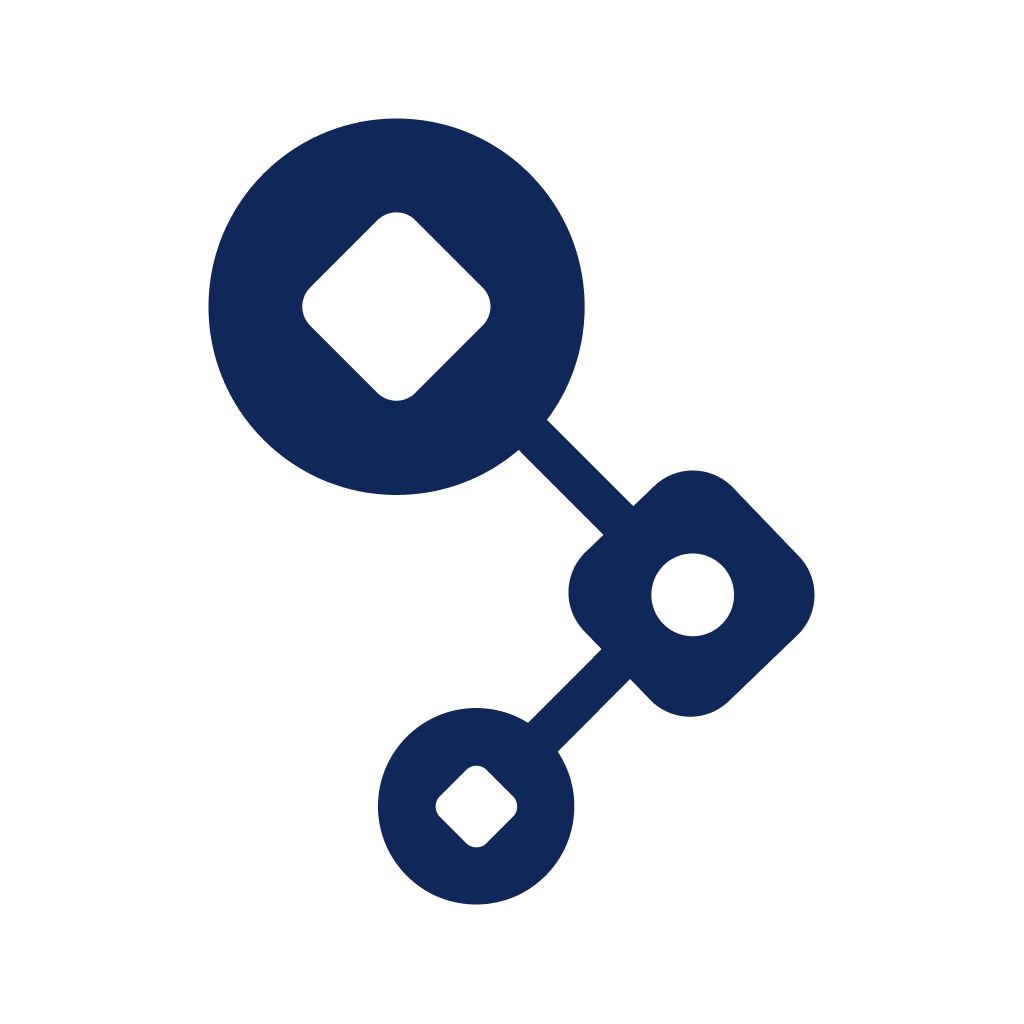
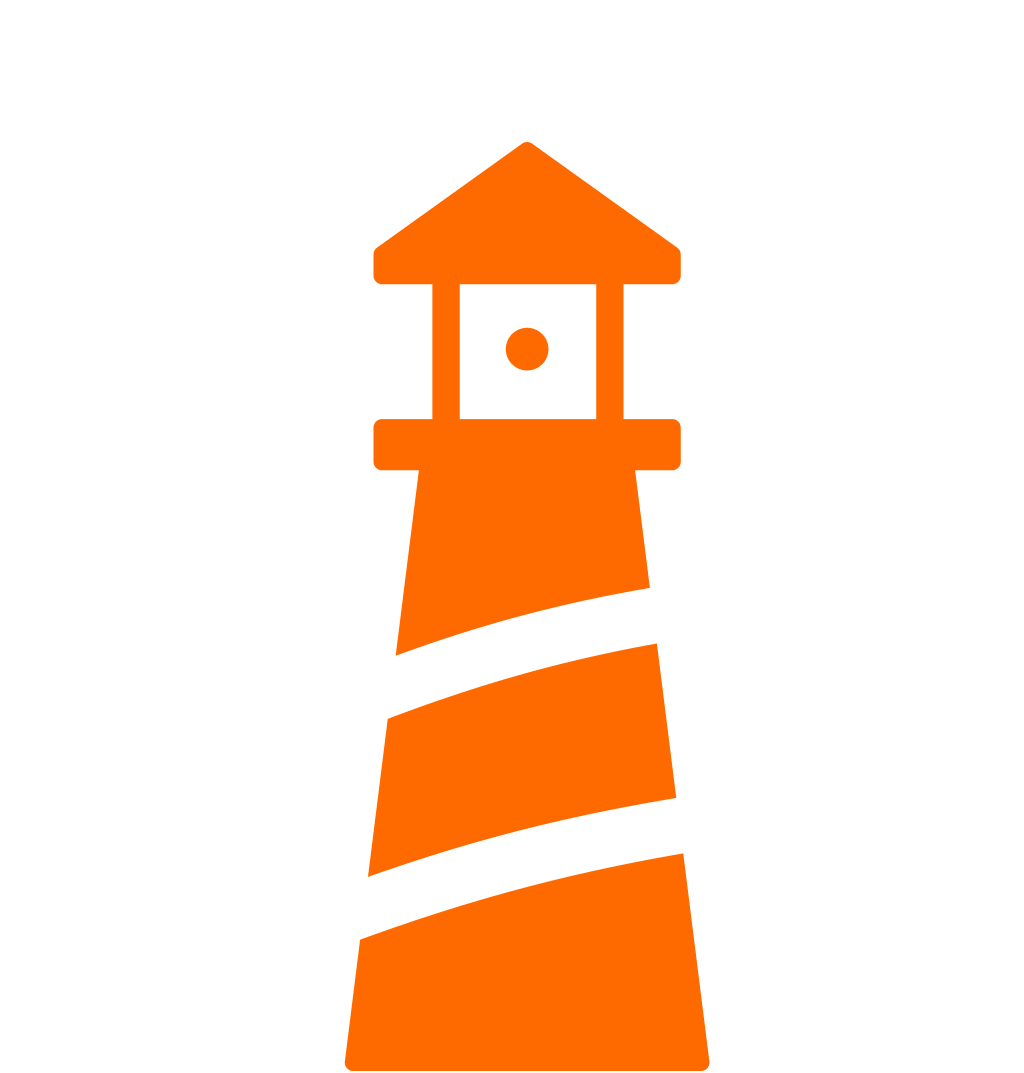
Experiment rebrand to Harbor

Changed region(s): [[0.1875, 0.0938, 0.8125, 1.0]]

diff --git a/apps/polycentric/src/common/theme/palette.ts b/apps/polycentric/src/common/theme/palette.ts
@@ -110,19 +110,19 @@ export const lightPalette = {
   neutral_975: '#0D1016',
   neutral_1000: '#000000',
 
-  primary_25: '#EDF8FE',
-  primary_50: '#DCF3FC',
-  primary_100: '#C5E9FA',
-  primary_200: '#9DD8F4',
-  primary_300: '#6BC4EF',
-  primary_400: '#55BBEC',
-  primary_500: '#4F91DC',
-  primary_600: '#1883BC',
-  primary_700: '#126394',
-  primary_800: '#0C436C',
-  primary_900: '#062343',
-  primary_950: '#051A35',
-  primary_975: '#041229',
+  primary_25: '#FFF3EB',
+  primary_50: '#FFC049',
+  primary_100: '#FFA05C',
+  primary_200: '#FF9447',
+  primary_300: '#FF8833',
+  primary_400: '#FF731F',
+  primary_500: '#FF6A00',
+  primary_600: '#F56600',
+  primary_700: '#E05E00',
+  primary_800: '#CC5500',
+  primary_900: '#B84D00',
+  primary_950: '#A34400',
+  primary_975: '#8F3C00',
 
   positive_25: '#E8F5E8',
   positive_50: '#D1EBD1',
@@ -190,19 +190,19 @@ export const darkPalette = {
   neutral_975: '#EEEEEE',
   neutral_1000: '#FFFFFF',
 
-  primary_25: '#0A1A24',
-  primary_50: '#0F2533',
-  primary_100: '#153445',
-  primary_200: '#1C4A62',
-  primary_300: '#1E6A8C',
-  primary_400: '#1E86B8',
-  primary_500: '#1EA3E5',
-  primary_600: '#1883BC',
-  primary_700: '#126394',
-  primary_800: '#0C436C',
-  primary_900: '#062343',
-  primary_950: '#051A35',
-  primary_975: '#041229',
+  primary_25: '#FFF3EB',
+  primary_50: '#FFC049',
+  primary_100: '#FFA05C',
+  primary_200: '#FF9447',
+  primary_300: '#FF8833',
+  primary_400: '#FF731F',
+  primary_500: '#FF6A00',
+  primary_600: '#F56600',
+  primary_700: '#E05E00',
+  primary_800: '#CC5500',
+  primary_900: '#B84D00',
+  primary_950: '#A34400',
+  primary_975: '#8F3C00',
 
   positive_25: '#0A1F0A',
   positive_50: '#0F2E0F',

diff --git a/apps/polycentric/src/common/components/layout/Layout.tsx b/apps/polycentric/src/common/components/layout/Layout.tsx
@@ -21,8 +21,7 @@ import { useSafeAreaInsets } from 'react-native-safe-area-context';
 
 import Icon from '@/src/common/components/Icon';
 import { IdentityFooter } from '@/src/features/core/identity/IdentityFooter';
-import BLUE_LOGO from '../../assets/images/polycentric-logo-blue-256.png';
-import WHITE_LOGO from '../../assets/images/polycentric-logo-white-256.png';
+import HARBOR_LOGO from '../../assets/images/harbor-logo-256.png';
 import { FUTO_URL, openCompose } from '../../constants';
 import { useCurrentIdentity } from '../../lib/polycentric-hooks';
 import { Button } from '../primitives';
@@ -232,7 +231,8 @@ export const LeftSidebar = memo(function LeftSidebar({
               <Link
                 href="/"
                 style={[
-                  Atoms.py_lg,
+                  Atoms.pt_sm,
+                  Atoms.pb_lg,
                   Atoms.flex,
                   Atoms.align_center,
                   !narrowSidebar && Atoms.px_lg,
@@ -240,9 +240,9 @@ export const LeftSidebar = memo(function LeftSidebar({
                 ]}
               >
                 <Image
-                  source={theme.scheme === 'dark' ? WHITE_LOGO : BLUE_LOGO}
+                  source={HARBOR_LOGO}
                   contentFit="contain"
-                  style={{ width: 30, height: 30 }}
+                  style={{ width: 40, height: 40 }}
                 />
               </Link>
 

diff --git a/apps/polycentric/app.config.ts b/apps/polycentric/app.config.ts
@@ -5,7 +5,7 @@ const { version: PKG_VERSION } = require('./package.json');
 
 const IS_DEV = process.env.APP_VARIANT === 'dev';
 
-const NAME = IS_DEV ? 'Polycentric Dev' : 'Polycentric';
+const NAME = IS_DEV ? 'Harbor Dev' : 'Harbor';
 const ID = IS_DEV ? 'org.futo.polycentric.dev' : 'org.futo.polycentric';
 
 const GOOGLE_SERVICES_FILE =
@@ -46,7 +46,7 @@ export default ({ config }: ConfigContext): ExpoConfig => ({
         './src/common/assets/images/app-icons/android-icon-monochrome.png',
       backgroundImage:
         './src/common/assets/images/app-icons/android-icon-background.png',
-      backgroundColor: '#F2F5F9',
+      backgroundColor: '#FF6A00',
     },
     package: ID,
     permissions: ['android.permission.CAMERA'],
@@ -60,7 +60,7 @@ export default ({ config }: ConfigContext): ExpoConfig => ({
         image: './src/common/assets/images/app-icons/ios-icon-default.png',
         imageWidth: 200,
         resizeMode: 'contain',
-        backgroundColor: '#F2F5F9',
+        backgroundColor: '#FF6A00',
       },
     ],
     'expo-font',

diff --git a/apps/polycentric/src/common/components/layout/Topbar.tsx b/apps/polycentric/src/common/components/layout/Topbar.tsx
@@ -3,8 +3,7 @@ import { Image } from 'expo-image';
 import { Link, router, useSegments } from 'expo-router';
 import { memo, type ReactNode } from 'react';
 import { Pressable, View } from 'react-native';
-import BLUE_LOGO from '../../assets/images/polycentric-logo-blue-256.png';
-import WHITE_LOGO from '../../assets/images/polycentric-logo-white-256.png';
+import HARBOR_LOGO from '../../assets/images/harbor-logo-256.png';
 import { useCurrentIdentity } from '../../lib/polycentric-hooks';
 import { Atoms, Spacing, useTheme, withHexOpacity } from '../../theme';
 import { ProfileAvatar, Text } from '../primitives';
@@ -102,7 +101,7 @@ function Topbar({ title, left, center, right }: TopbarProps) {
           ) : (
             // <Link href={{ pathname: '/' }}>
             <Image
-              source={theme.scheme === 'dark' ? WHITE_LOGO : BLUE_LOGO}
+              source={HARBOR_LOGO}
               contentFit="contain"
               style={[{ width: 36, height: 36 }, Atoms.self_center]}
             />

diff --git a/apps/polycentric/app/+html.tsx b/apps/polycentric/app/+html.tsx
@@ -10,7 +10,7 @@ export default function Root({ children }: PropsWithChildren) {
           name="viewport"
           content="width=device-width, initial-scale=1, shrink-to-fit=no"
         />
-        <title>Polycentric</title>
+        <title>Harbor</title>
         <link rel="icon" href="/favicon.ico" sizes="any" />
         <ScrollViewStyleReset />
       </head>

diff --git a/apps/polycentric/src/common/theme/provider.tsx b/apps/polycentric/src/common/theme/provider.tsx
@@ -13,7 +13,7 @@ import {
   useState,
   type PropsWithChildren,
 } from 'react';
-import { useColorScheme } from 'react-native';
+import { Appearance, useColorScheme } from 'react-native';
 import { useSettings } from '@/src/common/settings';
 import { themes, type Theme, type ThemeKey } from './themes';
 

diff --git a/README.md b/README.md
@@ -1,5 +1,5 @@
 <p align="center">
-<img alt="posthoglogo" src="https://gitlab.futo.org/polycentric/polycentric/-/raw/develop/apps/polycentric/src/common/assets/images/polycentric-logo-blue.png?ref_type=heads" width="50">
+<img alt="harborlogo" src="https://gitlab.futo.org/polycentric/polycentric/-/raw/develop/apps/polycentric/src/common/assets/images/harbor-logo-256.png?ref_type=heads" width="50">
 
 </p>
 
@@ -7,9 +7,9 @@
   <a href="https://docs.polycentric.io/">Docs</a> - <a href="https://gitlab.futo.org/polycentric">Code</a>
 </p>
 
-## Polycentric is an open-source, distributed social network
+## Harbor is an open-source, distributed social network
 
-[Polycentric](https://polycentric.io) is an open-source, distributed social network that lets you publish content to multiple servers. If you're censored on one server, your content remains accessible from other servers.
+[Harbor](https://harbor.social) is an open-source, distributed social network that lets you publish content to multiple servers. If you're censored on one server, your content remains accessible from other servers.
 
 ## Getting started
 
@@ -99,7 +99,7 @@ also regenerate them with `pnpm ubrn:clean` followed by `pnpm build`.
 
 | App                | Description                                                         |
 | ------------------ | ------------------------------------------------------------------- |
-| `apps/polycentric` | The main Polycentric social network application (Expo/React Native) |
+| `apps/polycentric` | The main social network application (Expo/React Native) |
 
 ### Services
 
